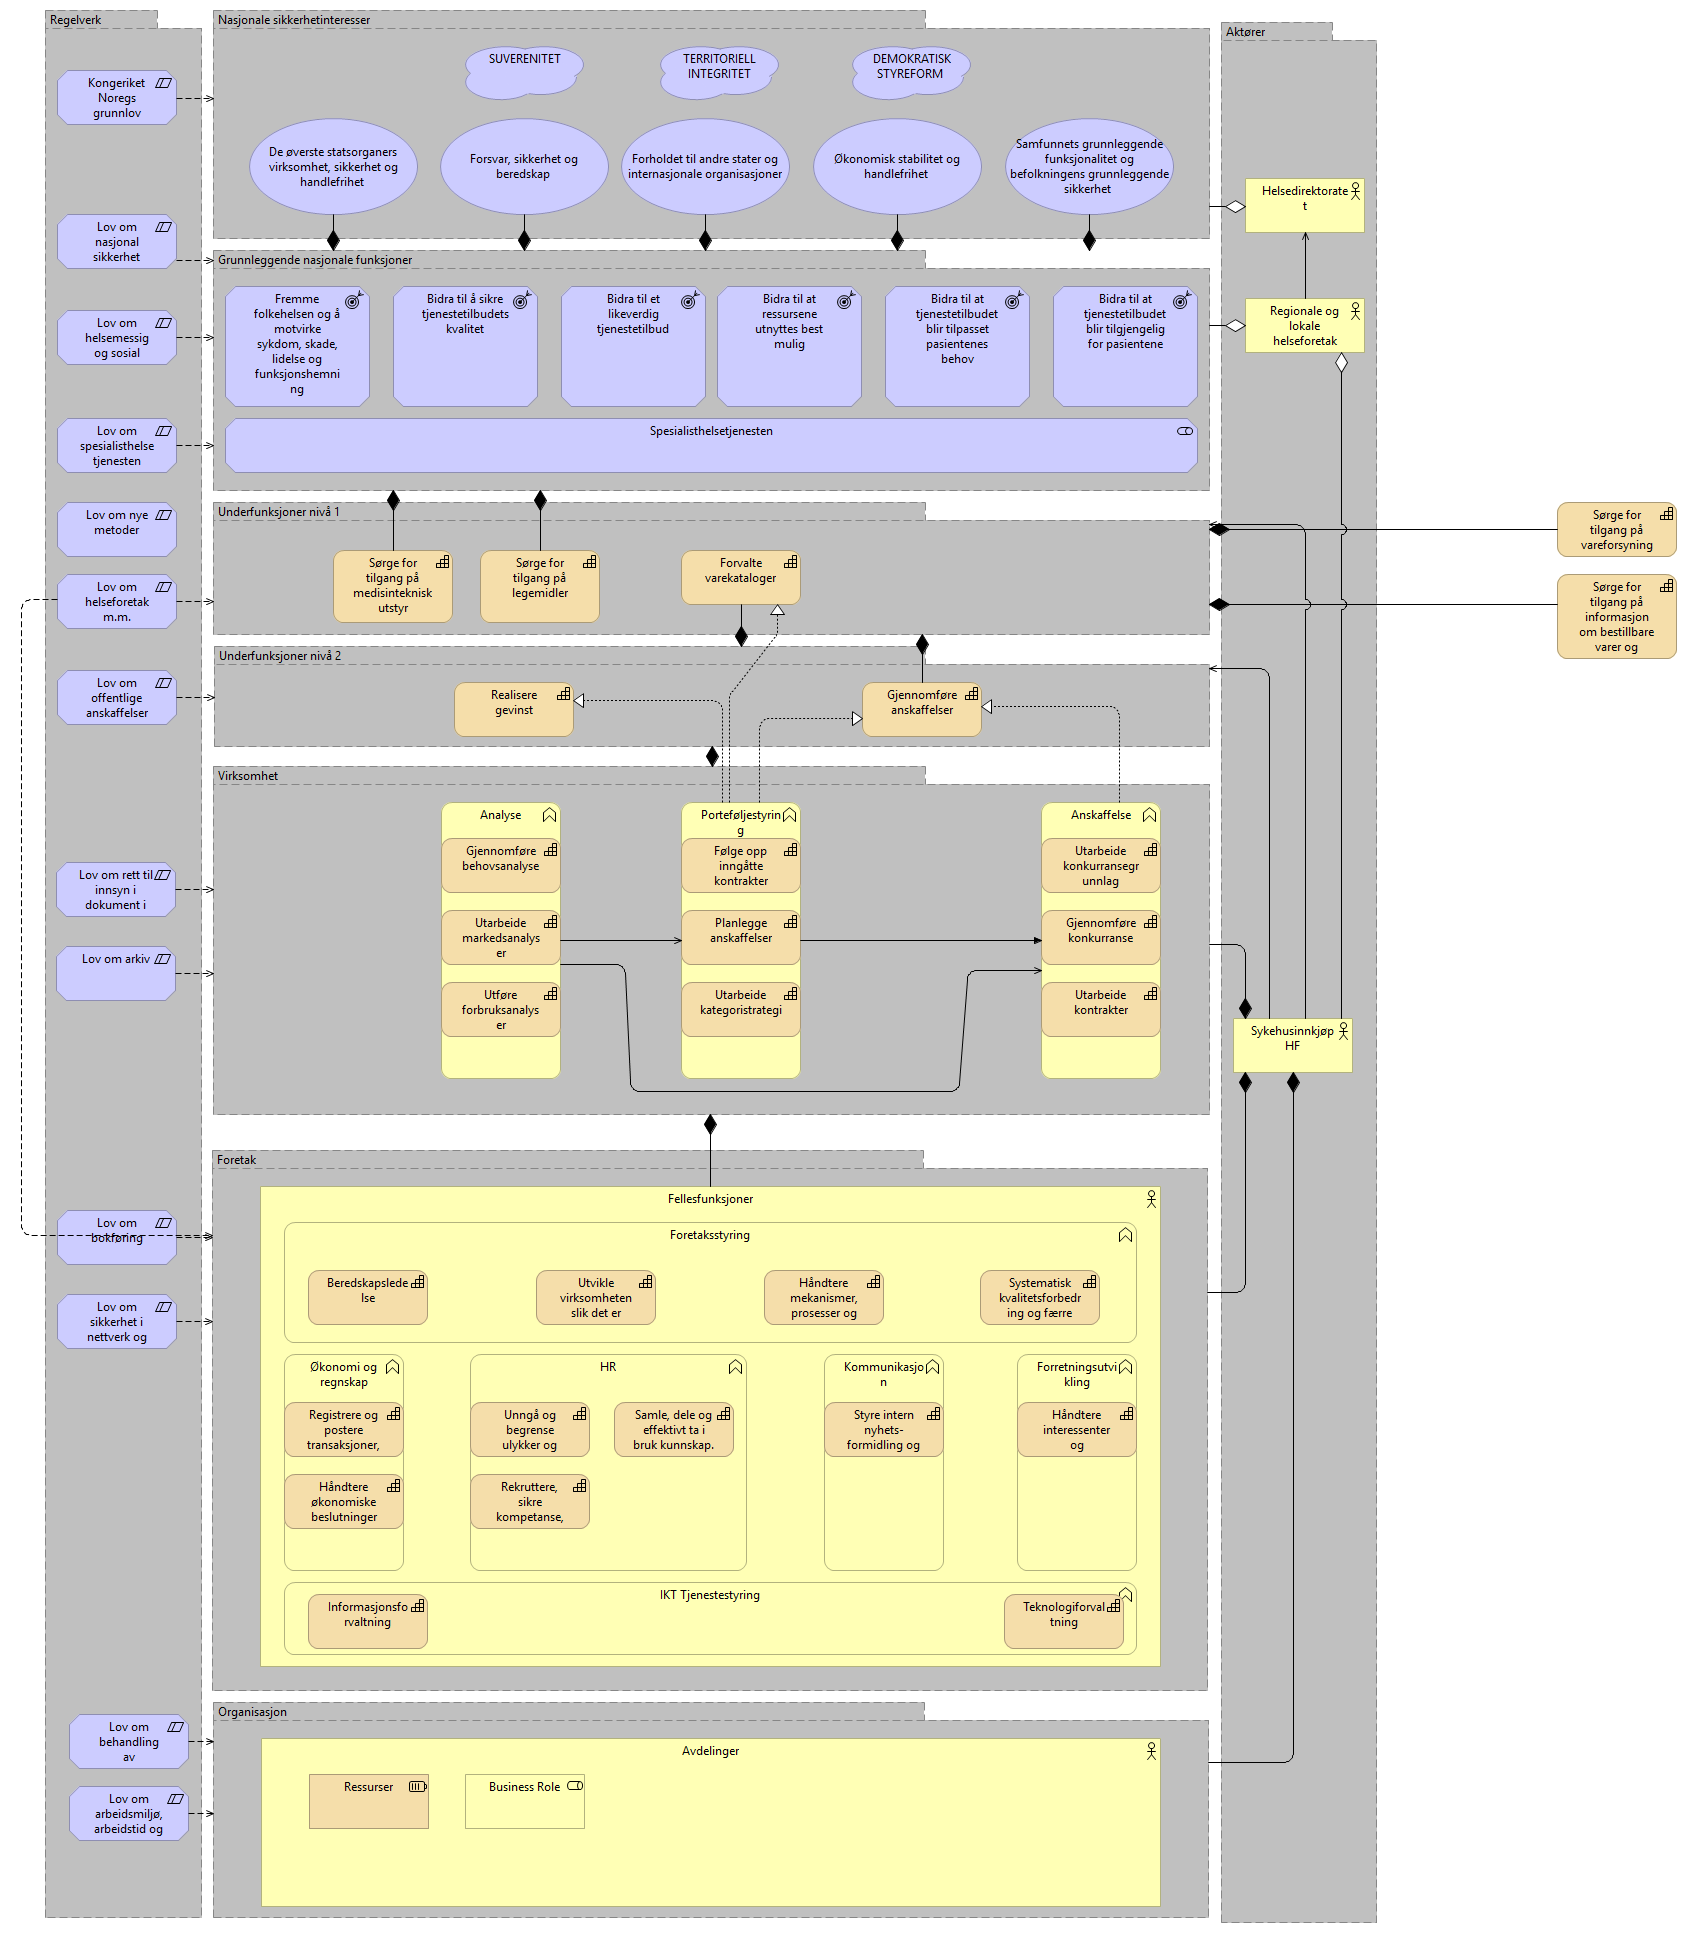
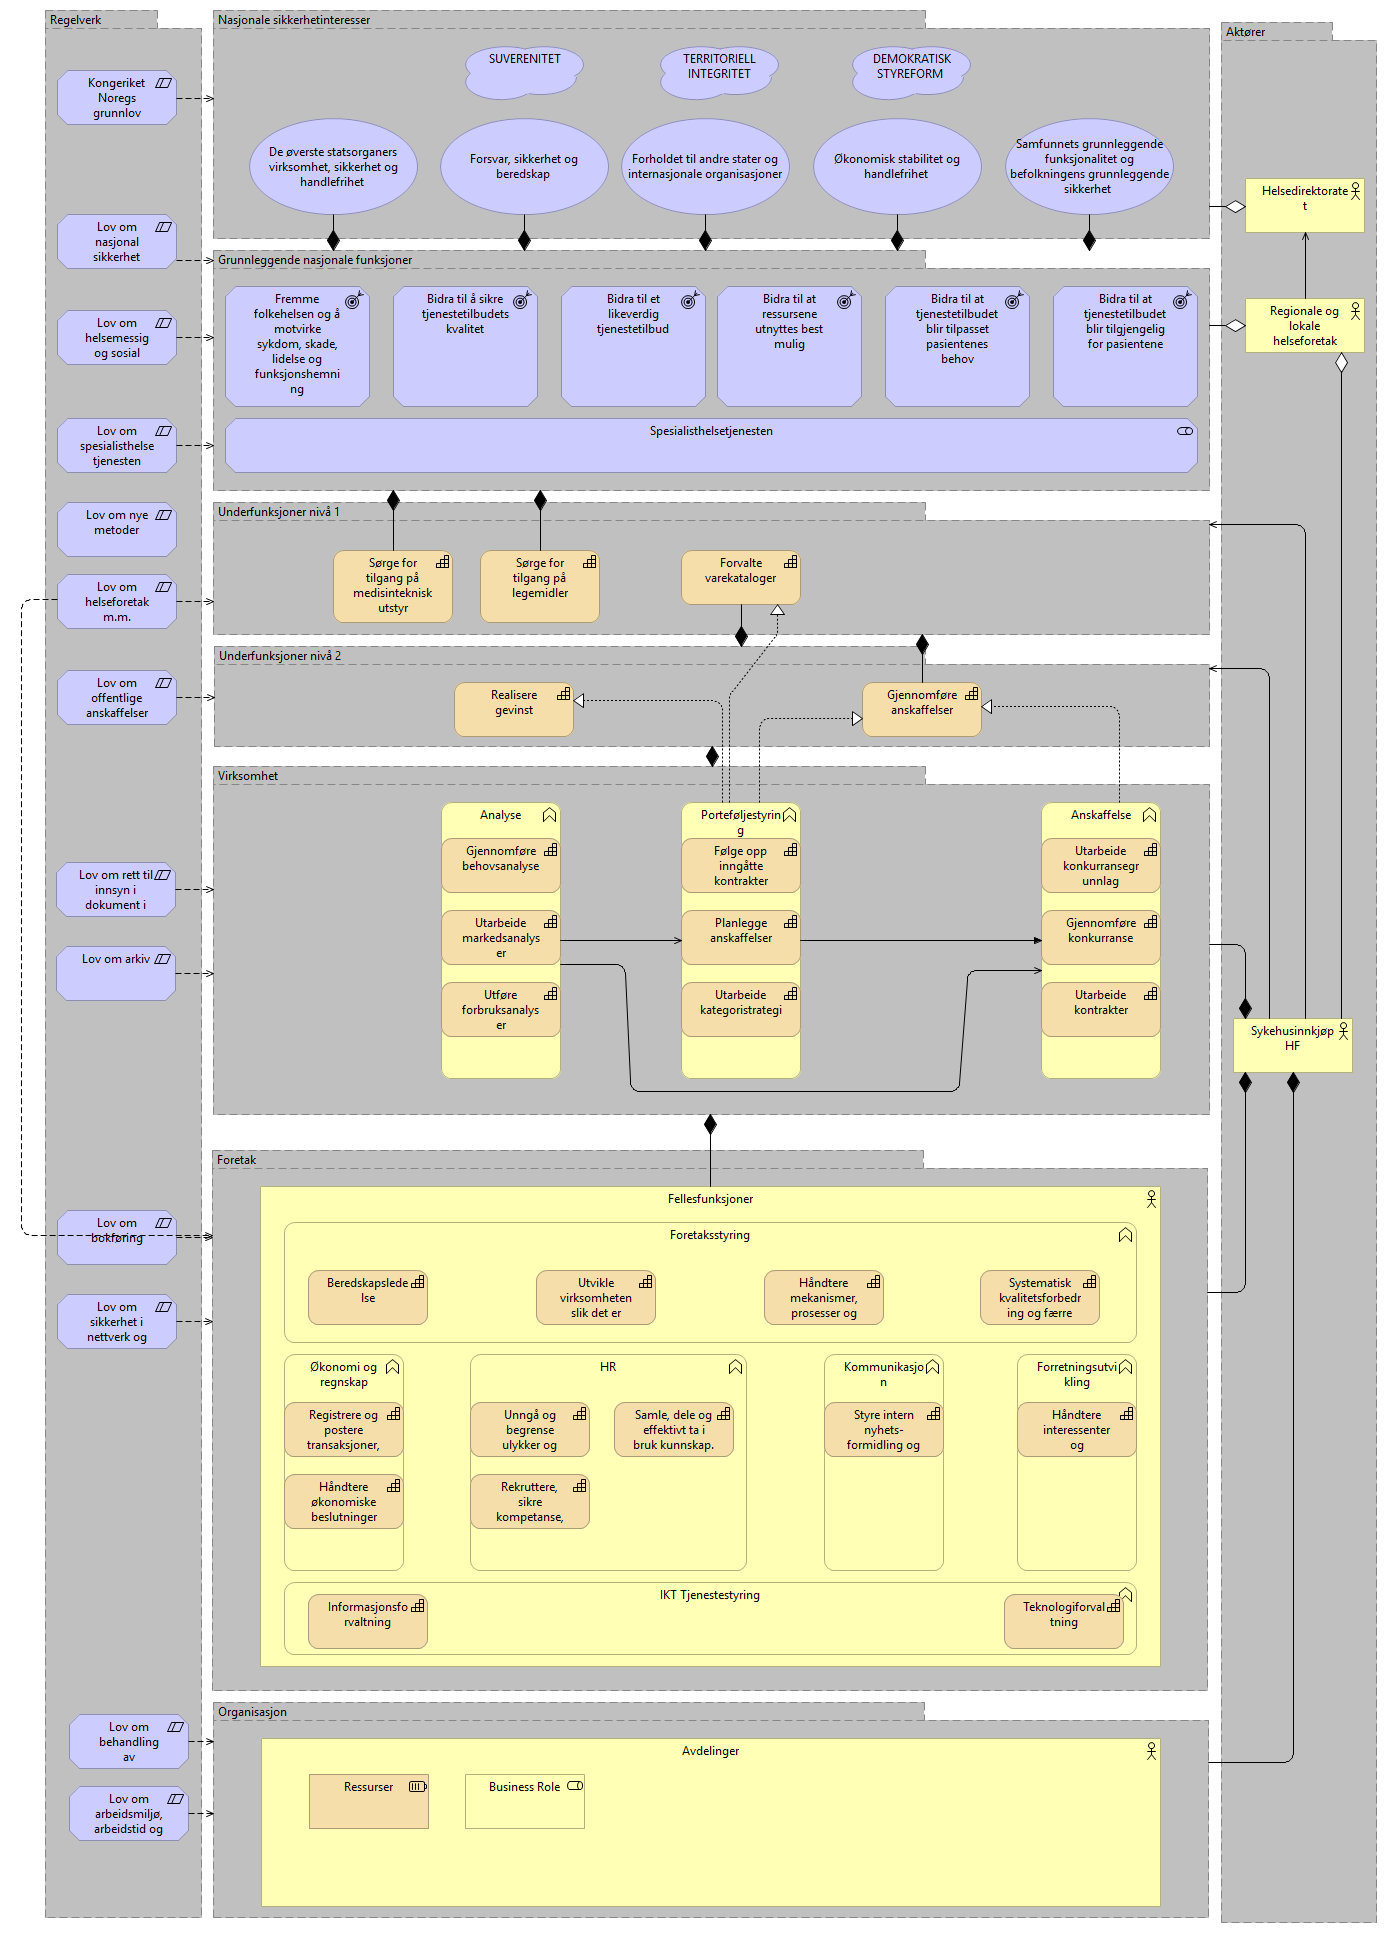
Fix

diff --git a/index.html b/index.html
@@ -173,7 +173,6 @@
                                     				<li class="tree-element"><a href="25eb1d65-b2a2-4123-ad8c-6578b468097d/elements/3be58d2f-7bc8-4880-88c4-55895986e01f.html" target="element"> Ivareta endringsstyring </a></li>
                                     				<li class="tree-element"><a href="25eb1d65-b2a2-4123-ad8c-6578b468097d/elements/3c8bd868-fb7b-43ac-9caf-9ba1222452fd.html" target="element"> Inng&#229; i kommunikasjonslinjer ved krisesituasjoner </a></li>
                                     				<li class="tree-element"><a href="25eb1d65-b2a2-4123-ad8c-6578b468097d/elements/4a187447-9ad0-4602-aa12-8d58bf5bd36e.html" target="element"> Forvaltning av begrepene og dataenes definisjoner (ordb&#248;ker) og livssyklus  </a></li>
-                                    				<li class="tree-element"><a href="25eb1d65-b2a2-4123-ad8c-6578b468097d/elements/60145933-6a7f-4af5-b501-397061eed723.html" target="element"> S&#248;rge for tilgang p&#229; informasjon om bestillbare varer og tjenester </a></li>
                                     				<li class="tree-element"><a href="25eb1d65-b2a2-4123-ad8c-6578b468097d/elements/64d80854-9c27-483e-a87b-88bd3eb5be1d.html" target="element"> Utvikle virksomheten slik det er fastsett i lover og forskrifter, og detaljert i oppdragsdokument og proposisjoner. </a></li>
                                     				<li class="tree-element"><a href="25eb1d65-b2a2-4123-ad8c-6578b468097d/elements/6ccd09f7-2af1-45bd-a0e3-268edff3b628.html" target="element"> Innholds- og dokumenth&#229;ndtering  </a></li>
                                     				<li class="tree-element"><a href="25eb1d65-b2a2-4123-ad8c-6578b468097d/elements/73158b87-6696-4119-ab21-a5447bb3d2c1.html" target="element"> Systematisk kvalitetsforbedring og f&#230;rre u&#248;nskede hendelser. </a></li>
@@ -188,7 +187,6 @@
                                     				<li class="tree-element"><a href="25eb1d65-b2a2-4123-ad8c-6578b468097d/elements/9081300d-e25b-43b9-a752-8b4145d18aab.html" target="element"> Definere, innhente, analysere og fremstille styringsdata og informasjon som gir ny innsikt og danner grunnlag for &#229; sikre at virksomhetens resultatm&#229;l n&#229;s med akseptabel risiko. </a></li>
                                     				<li class="tree-element"><a href="25eb1d65-b2a2-4123-ad8c-6578b468097d/elements/94f3c99c-735c-4431-a17d-9cd246e67b74.html" target="element"> H&#229;ndtering av leveransemodeller </a></li>
                                     				<li class="tree-element"><a href="25eb1d65-b2a2-4123-ad8c-6578b468097d/elements/9b7098d1-2ff7-41dc-9602-434b488dc163.html" target="element"> Utvikle tjenester i samarbeid med virksomheten </a></li>
-                                    				<li class="tree-element"><a href="25eb1d65-b2a2-4123-ad8c-6578b468097d/elements/a0c4c8c6-b247-4372-aaad-22cc2f2d5c1b.html" target="element"> S&#248;rge for tilgang p&#229; vareforsyning og tjenester </a></li>
                                     				<li class="tree-element"><a href="25eb1d65-b2a2-4123-ad8c-6578b468097d/elements/a232bd74-5179-4556-9247-be5e731f3144.html" target="element">  Balansere virksomhetenes tjenestetilbud i henhold til samfunnets og befolkningens behov og krav innen rammene for organisasjonens oppdrag. </a></li>
                                     				<li class="tree-element"><a href="25eb1d65-b2a2-4123-ad8c-6578b468097d/elements/a6051cfc-6f4e-4532-b3ca-3151174b6e72.html" target="element"> Rapportere status p&#229; anskaffelsesportef&#248;lje  </a></li>
                                     				<li class="tree-element"><a href="25eb1d65-b2a2-4123-ad8c-6578b468097d/elements/a7542788-0501-4479-a8ea-fdf4e45ed4e4.html" target="element"> Informasjonsstyring  </a></li>
@@ -3859,10 +3857,6 @@
 															<span class="i18n-elementtype-CompositionRelationship"></span>
 														(Foretaksstyring - Virksomhetsrapportering) 
 													</a></li>
-													<li class="tree-element"><a href="25eb1d65-b2a2-4123-ad8c-6578b468097d/elements/66a5ad00-1429-4183-b2ab-996303640c5c.html" target="element">
-															<span class="i18n-elementtype-CompositionRelationship"></span>
-														(Underfunksjoner niv&#229; 1 - S&#248;rge for tilgang p&#229; informasjon om bestillbare varer og tjenester) 
-													</a></li>
 													<li class="tree-element"><a href="25eb1d65-b2a2-4123-ad8c-6578b468097d/elements/66b4fac5-833f-4445-af13-8a6225554425.html" target="element">
 															<span class="i18n-elementtype-CompositionRelationship"></span>
 														(Regionalt eide helseforetak - Helse Nord RHF) 
@@ -3990,10 +3984,6 @@
 													<li class="tree-element"><a href="25eb1d65-b2a2-4123-ad8c-6578b468097d/elements/81cc23d5-9156-4d9b-9cd9-448013a6b86d.html" target="element">
 															<span class="i18n-elementtype-CompositionRelationship"></span>
 														(Helse Nord RHF - Sykehusapotek Nord HF ) 
-													</a></li>
-													<li class="tree-element"><a href="25eb1d65-b2a2-4123-ad8c-6578b468097d/elements/8347db20-739f-4c85-9d27-56e2b275c358.html" target="element">
-															<span class="i18n-elementtype-CompositionRelationship"></span>
-														(Underfunksjoner niv&#229; 1 - S&#248;rge for tilgang p&#229; vareforsyning og tjenester) 
 													</a></li>
 													<li class="tree-element"><a href="25eb1d65-b2a2-4123-ad8c-6578b468097d/elements/83d4ee37-b025-4150-9c1a-a63e3c2bb784.html" target="element">
 															<span class="i18n-elementtype-CompositionRelationship"></span>

diff --git a/25eb1d65-b2a2-4123-ad8c-6578b468097d/views/6f9afe44-bc5e-4959-8aca-3c06e944a373.html b/25eb1d65-b2a2-4123-ad8c-6578b468097d/views/6f9afe44-bc5e-4959-8aca-3c06e944a373.html
@@ -127,8 +127,6 @@
 								<area shape="rect" coords="1245,178,1365,233" href="../elements/351257ac-32c8-4609-a6eb-6ef3a6374d32.html"  target="element">
 
 						<area shape="rect" coords="1221,22,1377,1923" href="../elements/37d1818b-d094-4891-8b08-dda981c95e1a.html"  target="element">
-						<area shape="rect" coords="1557,574,1677,659" href="../elements/60145933-6a7f-4af5-b501-397061eed723.html"  target="element">
-						<area shape="rect" coords="1557,502,1677,557" href="../elements/a0c4c8c6-b247-4372-aaad-22cc2f2d5c1b.html"  target="element">
 
 			</map>
 			<div role="tabpanel">
@@ -266,8 +264,6 @@
 												<tr><td> <a href="../elements/903d36da-ccd2-4a65-b965-5d5ca9cb1d15.html" target="element"> Regionale og lokale helseforetak </a> </td><td class="i18n-elementtype-BusinessActor"></td></tr>
 												<tr><td> <a href="../elements/351257ac-32c8-4609-a6eb-6ef3a6374d32.html" target="element"> Helsedirektoratet </a> </td><td class="i18n-elementtype-BusinessActor"></td></tr>
 										
-										<tr><td> <a href="../elements/60145933-6a7f-4af5-b501-397061eed723.html" target="element"> S&#248;rge for tilgang p&#229; informasjon om bestillbare varer og tjenester </a> </td><td class="i18n-elementtype-Capability"></td></tr>
-										<tr><td> <a href="../elements/a0c4c8c6-b247-4372-aaad-22cc2f2d5c1b.html" target="element"> S&#248;rge for tilgang p&#229; vareforsyning og tjenester </a> </td><td class="i18n-elementtype-Capability"></td></tr>
 
 							</tbody>
 						</table>
